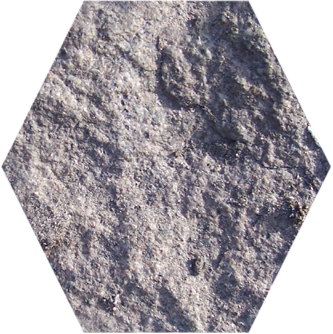
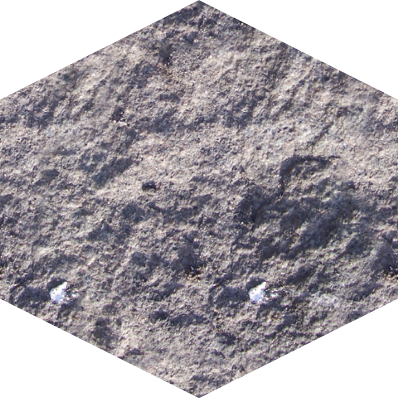
Correcciones a las figuras hexagonales y cuadradas... Sigue habiendo un leve offset

diff --git a/tallerDeProgramacionI-SnowBros/src/Vista/Drawer.cpp b/tallerDeProgramacionI-SnowBros/src/Vista/Drawer.cpp
@@ -49,6 +49,11 @@ bool Drawer::loadMedia()
 		printf( "Failed to load fondito texture!\n" );
 		success = false;
 	}
+	if(!squareTexture.loadFromFile(squareImagePath, renderer))
+	{
+		printf( "Failed to load fondito texture!\n" );
+		success = false;
+	}
 	if(!pentagonTexture.loadFromFile(pentagonImagePath, renderer))
 	{
 		printf( "Failed to load fondito texture!\n" );
@@ -78,6 +83,7 @@ Drawer::Drawer(JsonParser *parser) {
 	this->rectangleImage = "resources/imageRectangle.png";
 	this->circleImage = "resources/imageCircle.png";
 	this->triangleImagePath = "resources/triangle.png";
+	this->squareImagePath = "resources/cuadrado.png";
 	this->pentagonImagePath = "resources/pentagon.png";
 	this->hexagonImagePath = "resources/hexagon.png";
 
@@ -222,19 +228,19 @@ void Drawer::drawFigura(Figura* figura) {
 		}
 */
 		if(lados == 3){
-			float alto = (escala * 2)*(sqrt(3)/2);
+			float alto = sqrt(pow(2*escala,2)-pow(escala,2));
 			triangleTexture.render(renderer, coord_relativa(coordRel.x, un_to_px_x * (p.x-escala) + ox),
 					   coord_relativa(coordRel.y, -un_to_px_y * (p.y+alto/2) + oy),
 					   2*escala*un_to_px_x, alto*un_to_px_y,
 					   nullptr, polygon->getAngulo()*-RADTODEG, nullptr);
 		}
 		else if (lados == 4){
-			rectangleTexture.render(renderer, coord_relativa(coordRel.x, un_to_px_x * (p.x-escala) + ox),
+			squareTexture.render(renderer, coord_relativa(coordRel.x, un_to_px_x * (p.x-escala) + ox),
 											  coord_relativa(coordRel.y, -un_to_px_y * (p.y+escala) + oy),
 											  2*escala*un_to_px_x, 2*escala*un_to_px_x,
 											  nullptr, polygon->getAngulo()*-RADTODEG, nullptr);
 		}
-		else if (lados == 5){ //Hay que encontrar las relaciones del pentagono de ancho y alto
+		else if (lados == 5){
 			pentagonTexture.render(renderer, coord_relativa(coordRel.x, un_to_px_x * (p.x-escala) + ox),
 					   coord_relativa(coordRel.y, -un_to_px_y * (p.y+escala) + oy),
 					   2*escala*un_to_px_x, 2*escala*un_to_px_y,
@@ -248,6 +254,60 @@ void Drawer::drawFigura(Figura* figura) {
 		}
 
 	}
+	char* rgb = convertir_hex_a_rgb(figura->getColor());
+    //Old method lo deje para que se vean los dos por ahora. Luego borrar esto.
+    for (b2Fixture *fixture = figura->GetFixtureList(); fixture; fixture =
+                    fixture->GetNext()) {
+            if (fixture->GetType() == b2Shape::e_polygon) {
+                    b2PolygonShape *poly = (b2PolygonShape*) fixture->GetShape();
+                    const int count = poly->GetVertexCount();
+                    Sint16* xCoordOfVerts = new Sint16[count + 1];
+                    Sint16* yCoordOfVerts = new Sint16[count + 1];
+
+                    for (int i = 0; i < count; i++) {
+                            b2Vec2 p1 = figura->GetWorldPoint(poly->GetVertex(i));
+                            xCoordOfVerts[i] = (Sint16) ((un_to_px_x) * (p1.x) + ox);
+                            yCoordOfVerts[i] = (Sint16) (-un_to_px_y * p1.y + oy);
+
+                            xCoordOfVerts[i] = (Sint16) coord_relativa(coordRel.x, xCoordOfVerts[i]);
+                            yCoordOfVerts[i] = (Sint16) coord_relativa(coordRel.y, yCoordOfVerts[i]);
+                    }
+                    polygonRGBA(renderer, xCoordOfVerts, yCoordOfVerts, count, rgb[0], rgb[1], rgb[2], 255);
+                    //texturedPolygon(renderer,xCoordOfVerts,yCoordOfVerts,count,imagePolygon,xCoordOfVerts[0],yCoordOfVerts[0]);
+
+                    delete[] xCoordOfVerts;
+                    delete[] yCoordOfVerts;
+
+            } else if (fixture->GetType() == b2Shape::e_circle) {
+                    Circulo* circ = (Circulo*) figura;
+                    int centro_x = circ->getCoordX() * un_to_px_x + ox;
+                    int centro_y = circ->getCoordY() * -un_to_px_y + oy;
+
+                    //Opcion de dibujar el radio nomá
+                    //Esta linea va a ser el radio que va a ir girando con el circulo
+                    int borde_x = (circ->getRadio() * cos(circ->getAngulo())
+                                    * un_to_px_x) + centro_x;
+                    int borde_y = centro_y
+                                    - (circ->getRadio() * sin(circ->getAngulo()) * un_to_px_y);
+
+                    //cambiando coordenadas por las relativas a la camara
+                    centro_x = coord_relativa(coordRel.x, centro_x);
+                    centro_y = coord_relativa(coordRel.y, centro_y);
+
+                    ellipseRGBA(this->renderer, centro_x, centro_y,
+                                    circ->getRadio() * un_to_px_x,
+                                    circ->getRadio() * un_to_px_y, rgb[0], rgb[1], rgb[2], 255);
+
+                    //cambiando coordenadas por las relativas a la camara
+                    borde_x = coord_relativa(coordRel.x, borde_x);
+                    borde_y = coord_relativa(coordRel.y, borde_y);
+
+                    lineRGBA(renderer, centro_x, centro_y, borde_x, borde_y,
+                                    (rgb[0] + 120) % 255, (rgb[1] + 120) % 255,
+                                    (rgb[2] + 120) % 255, 255);
+            }
+    }
+    delete[] rgb;
 }
 
 void Drawer::drawCharacter(Personaje* person) {

diff --git a/tallerDeProgramacionI-SnowBros/headers/Vista/Drawer.h b/tallerDeProgramacionI-SnowBros/headers/Vista/Drawer.h
@@ -52,6 +52,7 @@ private:
 	LTexture rectangleTexture;
 	LTexture circleTexture;
 	LTexture triangleTexture;
+	LTexture squareTexture;
 	LTexture pentagonTexture;
 	LTexture hexagonTexture;
 
@@ -61,6 +62,7 @@ private:
 	string rectangleImage;
 	string circleImage;
 	string triangleImagePath;
+	string squareImagePath;
 	string pentagonImagePath;
 	string hexagonImagePath;
 
